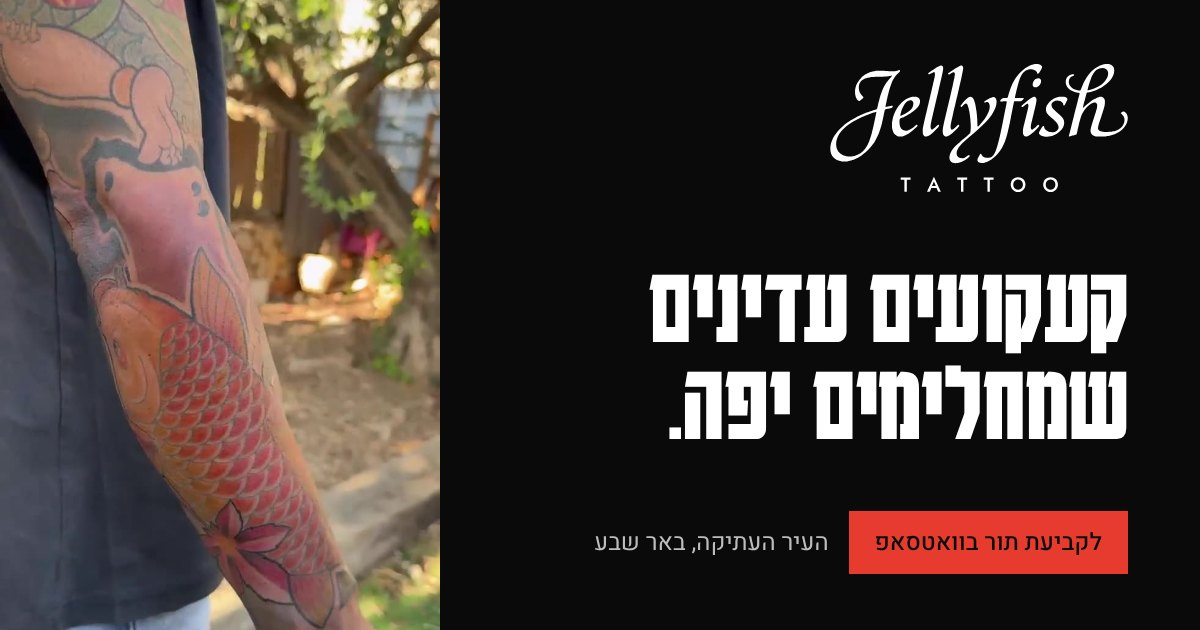
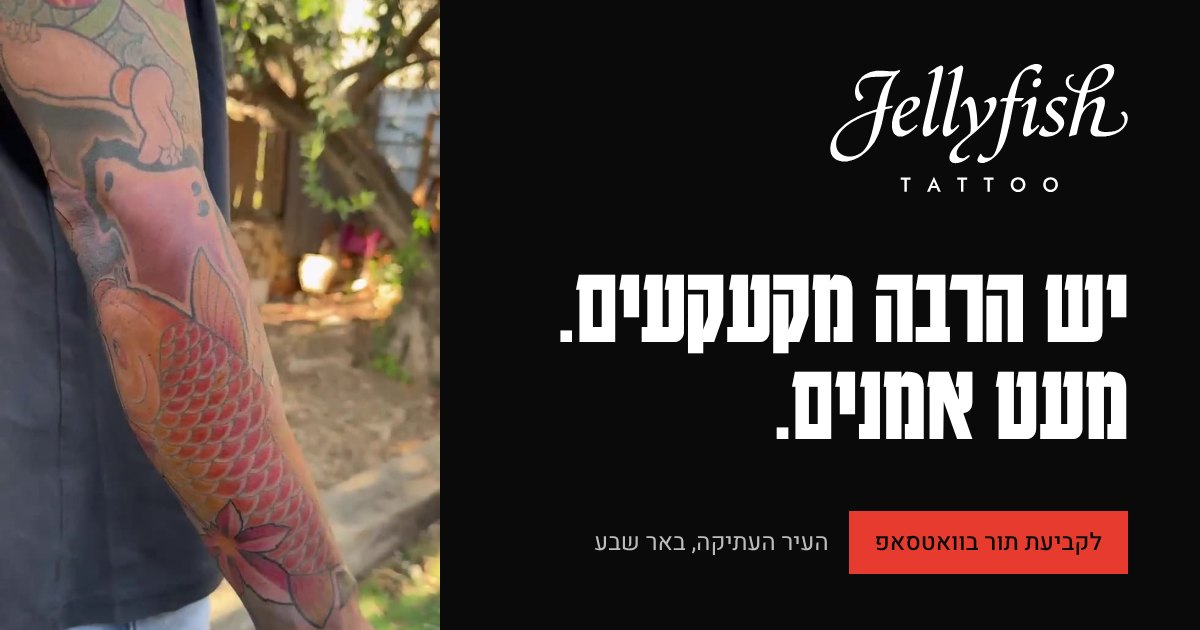
Jellyfish: new hero headline
Hero headline is now 'יש הרבה מקעקעים. מעט אמנים.', with the link preview image to match.

Claude-Session: https://claude.ai/code/session_019vovqMMsTL35YGX57hMbD5

Changed region(s): [[0.4625, 0.4222, 0.9558, 0.6937]]

diff --git a/jellyfish/index.html b/jellyfish/index.html
@@ -16,7 +16,7 @@
 <meta property="og:image" content="https://ofir1233.github.io/jellyfish/assets/img/og.jpg">
 <meta property="og:image:width" content="1200">
 <meta property="og:image:height" content="630">
-<meta property="og:image:alt" content="Jellyfish Tattoo: קעקועים עדינים שמחלימים יפה. לקביעת תור בוואטסאפ">
+<meta property="og:image:alt" content="Jellyfish Tattoo: יש הרבה מקעקעים. מעט אמנים. לקביעת תור בוואטסאפ">
 <meta name="twitter:card" content="summary_large_image">
 <meta name="theme-color" content="#0A0A0A">
 <link rel="preconnect" href="https://fonts.googleapis.com">
@@ -80,7 +80,7 @@
   <div class="hero__frame" aria-hidden="true"></div>
   <div class="wrap hero__center">
     <div class="kicker"><span class="latin">Jellyfish Tattoo</span><span class="small">· באר שבע</span></div>
-    <h1 class="display-xl">קעקועים עדינים שמחלימים יפה.</h1>
+    <h1 class="display-xl">יש הרבה מקעקעים.<br>מעט אמנים.</h1>
     <p class="lead">פיין ליין, בוטני ודוטוורק אורנמנטלי. מצויר ביד ע״י אלירן ובוריס, בעיר העתיקה של באר שבע.</p>
     <div class="btn-row">
       <a class="btn btn--book btn--lg js-wa" href="https://wa.me/972525659677"><svg class="wa-ico" viewBox="0 0 24 24" aria-hidden="true"><path d="M4 20l1.3-3.9A8 8 0 1 1 8 19z" fill="none" stroke="currentColor" stroke-width="1.8" stroke-linejoin="round"/><path d="M9.3 8.4c.3-.5.6-.5.9-.5h.5c.2 0 .4.1.5.4l.6 1.4c.1.2 0 .4-.1.6l-.5.6c.5.9 1.2 1.6 2.1 2.1l.6-.5c.2-.1.4-.2.6-.1l1.4.6c.3.1.4.3.4.5v.5c0 .3 0 .6-.5.9-.6.3-1.6.4-3.2-.6-1.4-.9-2.4-2.1-3-3.4-.5-1.2-.4-2.1.2-2.5z" fill="currentColor"/></svg>לקביעת תור בוואטסאפ</a>

diff --git a/jellyfish/404.html b/jellyfish/404.html
@@ -16,7 +16,7 @@
 <meta property="og:image" content="https://ofir1233.github.io/jellyfish/assets/img/og.jpg">
 <meta property="og:image:width" content="1200">
 <meta property="og:image:height" content="630">
-<meta property="og:image:alt" content="Jellyfish Tattoo: קעקועים עדינים שמחלימים יפה. לקביעת תור בוואטסאפ">
+<meta property="og:image:alt" content="Jellyfish Tattoo: יש הרבה מקעקעים. מעט אמנים. לקביעת תור בוואטסאפ">
 <meta name="twitter:card" content="summary_large_image">
 <meta name="theme-color" content="#0A0A0A">
 <link rel="preconnect" href="https://fonts.googleapis.com">

diff --git a/jellyfish/accessibility.html b/jellyfish/accessibility.html
@@ -16,7 +16,7 @@
 <meta property="og:image" content="https://ofir1233.github.io/jellyfish/assets/img/og.jpg">
 <meta property="og:image:width" content="1200">
 <meta property="og:image:height" content="630">
-<meta property="og:image:alt" content="Jellyfish Tattoo: קעקועים עדינים שמחלימים יפה. לקביעת תור בוואטסאפ">
+<meta property="og:image:alt" content="Jellyfish Tattoo: יש הרבה מקעקעים. מעט אמנים. לקביעת תור בוואטסאפ">
 <meta name="twitter:card" content="summary_large_image">
 <meta name="theme-color" content="#0A0A0A">
 <link rel="preconnect" href="https://fonts.googleapis.com">

diff --git a/jellyfish/aftercare.html b/jellyfish/aftercare.html
@@ -16,7 +16,7 @@
 <meta property="og:image" content="https://ofir1233.github.io/jellyfish/assets/img/og.jpg">
 <meta property="og:image:width" content="1200">
 <meta property="og:image:height" content="630">
-<meta property="og:image:alt" content="Jellyfish Tattoo: קעקועים עדינים שמחלימים יפה. לקביעת תור בוואטסאפ">
+<meta property="og:image:alt" content="Jellyfish Tattoo: יש הרבה מקעקעים. מעט אמנים. לקביעת תור בוואטסאפ">
 <meta name="twitter:card" content="summary_large_image">
 <meta name="theme-color" content="#0A0A0A">
 <link rel="preconnect" href="https://fonts.googleapis.com">

diff --git a/jellyfish/gift.html b/jellyfish/gift.html
@@ -16,7 +16,7 @@
 <meta property="og:image" content="https://ofir1233.github.io/jellyfish/assets/img/og.jpg">
 <meta property="og:image:width" content="1200">
 <meta property="og:image:height" content="630">
-<meta property="og:image:alt" content="Jellyfish Tattoo: קעקועים עדינים שמחלימים יפה. לקביעת תור בוואטסאפ">
+<meta property="og:image:alt" content="Jellyfish Tattoo: יש הרבה מקעקעים. מעט אמנים. לקביעת תור בוואטסאפ">
 <meta name="twitter:card" content="summary_large_image">
 <meta name="theme-color" content="#0A0A0A">
 <link rel="preconnect" href="https://fonts.googleapis.com">

diff --git a/jellyfish/jobs.html b/jellyfish/jobs.html
@@ -16,7 +16,7 @@
 <meta property="og:image" content="https://ofir1233.github.io/jellyfish/assets/img/og.jpg">
 <meta property="og:image:width" content="1200">
 <meta property="og:image:height" content="630">
-<meta property="og:image:alt" content="Jellyfish Tattoo: קעקועים עדינים שמחלימים יפה. לקביעת תור בוואטסאפ">
+<meta property="og:image:alt" content="Jellyfish Tattoo: יש הרבה מקעקעים. מעט אמנים. לקביעת תור בוואטסאפ">
 <meta name="twitter:card" content="summary_large_image">
 <meta name="theme-color" content="#0A0A0A">
 <link rel="preconnect" href="https://fonts.googleapis.com">

diff --git a/jellyfish/privacy.html b/jellyfish/privacy.html
@@ -16,7 +16,7 @@
 <meta property="og:image" content="https://ofir1233.github.io/jellyfish/assets/img/og.jpg">
 <meta property="og:image:width" content="1200">
 <meta property="og:image:height" content="630">
-<meta property="og:image:alt" content="Jellyfish Tattoo: קעקועים עדינים שמחלימים יפה. לקביעת תור בוואטסאפ">
+<meta property="og:image:alt" content="Jellyfish Tattoo: יש הרבה מקעקעים. מעט אמנים. לקביעת תור בוואטסאפ">
 <meta name="twitter:card" content="summary_large_image">
 <meta name="theme-color" content="#0A0A0A">
 <link rel="preconnect" href="https://fonts.googleapis.com">
